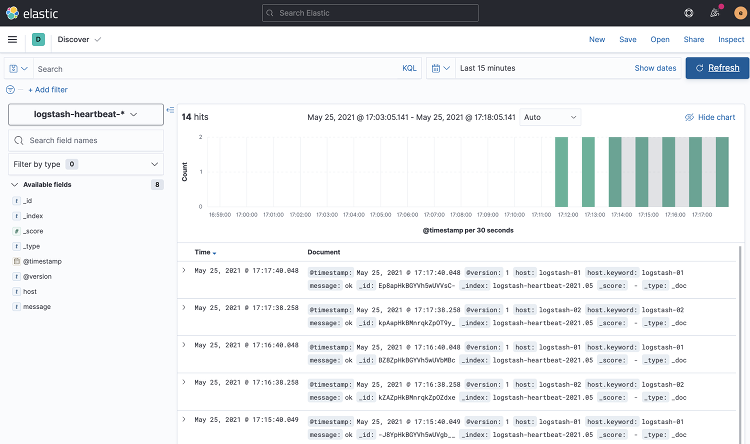
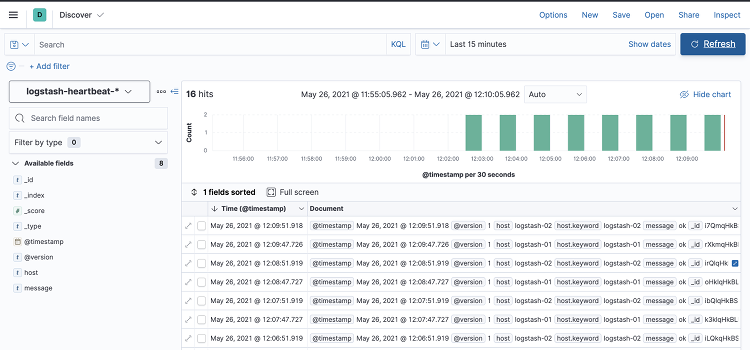
update to ECK 1.6 and Elastic Stack 7.12.1-7.13.0

diff --git a/monitoring/README.md b/monitoring/README.md
@@ -1,7 +1,7 @@
 # Deploying and monitoring the ELK Stack
 
-- Once we've [installed GKE and ECK](../install-gke-and-eck.md), we can proceed to create an ELK stack, and a dedicated [monitoring cluster](https://www.elastic.co/guide/en/elasticsearch/reference/current/monitor-elasticsearch-cluster.html). 
-- We'll use [Metricbeat collection](https://www.elastic.co/guide/en/elasticsearch/reference/current/configuring-metricbeat.html) to gather the data.
+- Once we've [installed GKE and ECK](../install-gke-and-eck.md), we can proceed to create an ELK stack, and a dedicated [monitoring cluster](https://www.elastic.co/guide/en/elasticsearch/reference/7.13/monitor-elasticsearch-cluster.html). 
+- We'll use [Metricbeat collection](https://www.elastic.co/guide/en/elasticsearch/reference/7.13/configuring-metricbeat.html) to gather the data.
 - The example is built based on the following blog: https://www.elastic.co/blog/elastic-stack-monitoring-with-elastic-cloud-on-kubernetes and examples the example in https://github.com/elastic/cloud-on-k8s/blob/master/config/recipes/beats/stack_monitoring.yaml
 - This is not a production-ready example, just a simple example to get you started. 
     - We'll be deploying the ELK stack and the monitoring cluster in the same `default` k8s namespace.
@@ -13,8 +13,8 @@
 
 - The first step is to deploy the Elasticsearch cluster and Kibana instance to monitor, our production stack. 
   - The [01-monitored-es-kb.yaml](./01-monitored-es-kb.yaml) file describes a 3 node Elasticsearch cluster and 1 Kibana instance. Kibana is published via and [external Load Balancer](https://kubernetes.io/docs/tasks/access-application-cluster/create-external-load-balancer/#external-load-balancer-providers), setting [Service](https://kubernetes.io/docs/concepts/services-networking/service/) `type` to `LoadBalancer`.
-  - The labels `stack-monitoring.elastic.co/type` will allow Metricbeat to configure the [Elaticsearch](https://www.elastic.co/guide/en/beats/metricbeat/7.12/metricbeat-module-elasticsearch.html) and [Kibana](https://www.elastic.co/guide/en/beats/metricbeat/7.12/metricbeat-module-kibana.html) modules.
-  - With the annotation [`co.elastic.logs/enabled: "true"`](https://www.elastic.co/guide/en/beats/filebeat/7.12/configuration-autodiscover-hints.html#_co_elastic_logsenabled) we allow our monitoring Filebeat to capture only the logs from Pods that have this annotation set to `true` and send those to the monitoring cluster.
+  - The labels `stack-monitoring.elastic.co/type` will allow Metricbeat to configure the [Elaticsearch](https://www.elastic.co/guide/en/beats/metricbeat/7.13/metricbeat-module-elasticsearch.html) and [Kibana](https://www.elastic.co/guide/en/beats/metricbeat/7.13/metricbeat-module-kibana.html) modules.
+  - With the annotation [`co.elastic.logs/enabled: "true"`](https://www.elastic.co/guide/en/beats/filebeat/7.13/configuration-autodiscover-hints.html#_co_elastic_logsenabled) we allow our monitoring Filebeat to capture only the logs from Pods that have this annotation set to `true` and send those to the monitoring cluster.
 
 - Let's deploy:
 
@@ -42,7 +42,7 @@
     ```
 - We can now point our browser to https://EXTERNAL-IP:5601, in the example https://35.246.189.26:5601, and login with user `elastic` and the password we extracted from the secret, `234IrkC5886H9oPL3dK7lttD` in our example. 
     - As we are using self-signed certificates, we'll have to bypass the browser warning.
-- Feel free to load [sample data](https://www.elastic.co/guide/en/kibana/7.12/get-started.html#gs-get-data-into-kibana) into the Kibana instance, or play around.
+- Feel free to load [sample data](https://www.elastic.co/guide/en/kibana/7.13/get-started.html#gs-get-data-into-kibana) into the Kibana instance, or play around.
 - This is what we would see in Kubernetic, 3 pods for Elasticsearch Daemon Set, 1 for the Kibana service.
 
   ![Production Pods](./img/kubernetic-prod-pods.png)
@@ -51,9 +51,9 @@
 
 - We'll now go ahead and deploy a couple of Logstash instances. 
 - Logstash cannot be deployed using the ECK operator, and we can use the [Helm chart](https://github.com/elastic/helm-charts/tree/master/logstash). It's still not GA, so use it with caution in production, as it's not yet fully supported.
-- For the sake of simplicity here, we'll just deploy a couple of [Pods](https://kubernetes.io/docs/concepts/workloads/pods/) named `logstash-01` and `logstash-02`, with a simple pipeline that user Logstash [heartbeat input plugin](https://www.elastic.co/guide/en/logstash/7.12/plugins-inputs-heartbeat.html) to send an event every 60 seconds. This will be configured using a k8s [ConfigMap](https://kubernetes.io/docs/concepts/configuration/configmap/).
+- For the sake of simplicity here, we'll just deploy a couple of [Pods](https://kubernetes.io/docs/concepts/workloads/pods/) named `logstash-01` and `logstash-02`, with a simple pipeline that user Logstash [heartbeat input plugin](https://www.elastic.co/guide/en/logstash/7.13/plugins-inputs-heartbeat.html) to send an event every 60 seconds. This will be configured using a k8s [ConfigMap](https://kubernetes.io/docs/concepts/configuration/configmap/).
 - Before deploying, we need to make some changes to the file [02-monitored-logstash.yaml](./02-monitored-logstash.yaml), which also describes the Logstash `ConfigMap`.
-  - In order to monitor the cluster, we need to set a value for the [`monitoring.cluster_uuid:`](https://www.elastic.co/guide/en/logstash/7.12/monitoring-with-metricbeat.html#define-cluster__uuid), to bind Logstash metrics to the cluster we created in the first step. 
+  - In order to monitor the cluster, we need to set a value for the [`monitoring.cluster_uuid:`](https://www.elastic.co/guide/en/logstash/7.13/monitoring-with-metricbeat.html#define-cluster__uuid), to bind Logstash metrics to the cluster we created in the first step. 
   - The `cluster_uuid` is in the annotations for that cluster. Execute the following to get it:
 
     ```shell
@@ -62,9 +62,9 @@
     wZfJcRAOToubncOnkN_6rg
     ```
   - And update the [ConfigMap](./02-monitored-logstash.yaml) accordingly. In our case, we changed `monitoring.cluster_uuid: changeme` to `monitoring.cluster_uuid: wZfJcRAOToubncOnkN_6rg`.
-  - Next we need to update the `elastic` user password in the `ConfigMap`. Note that this is not what we would do in production, we would create a [dedicated user with limited permissions](https://www.elastic.co/guide/en/logstash/7.12/ls-security.html#ls-http-auth-basic). We'll use the `elastic` user here for simplicity, as this is a getting started example.
+  - Next we need to update the `elastic` user password in the `ConfigMap`. Note that this is not what we would do in production, we would create a [dedicated user with limited permissions](https://www.elastic.co/guide/en/logstash/7.13/ls-security.html#ls-http-auth-basic). We'll use the `elastic` user here for simplicity, as this is a getting started example.
   - Update the [ConfigMap](./02-monitored-logstash.yaml), in our case, we changed `password => "changeme"` to `password => "234IrkC5886H9oPL3dK7lttD"`; the password extracted in the first step.
-- Note that we defined a label, `monitoring_label_type: ls`, that we'll later use to configure the [Metricbeat Logstash module](https://www.elastic.co/guide/en/beats/filebeat/7.12/filebeat-module-logstash.html) to collect its metrics.
+- Note that we defined a label, `monitoring_label_type: ls`, that we'll later use to configure the [Metricbeat Logstash module](https://www.elastic.co/guide/en/beats/filebeat/7.13/filebeat-module-logstash.html) to collect its metrics.
 - We can go ahead and create the Logstash Pods and ConfigMap.
 
     ```shell
@@ -97,7 +97,7 @@
     ![Logstash-01 Pod Logs](./img/kubernetic-logstash-pods-logs.png)
 
 - Finally, if we log into Kibana, we should be able to see a new index, `logstash-heartbeat-YYYY.MM`. In our case, `logstash-heartbeat-2021.01`. 
-    - We can create an [index pattern](https://www.elastic.co/guide/en/kibana/7.12/index-patterns.html) to view the data on [Kibana Discover](https://www.elastic.co/guide/en/kibana/7.12/discover.html).
+    - We can create an [index pattern](https://www.elastic.co/guide/en/kibana/7.13/index-patterns.html) to view the data on [Kibana Discover](https://www.elastic.co/guide/en/kibana/7.13/discover.html).
  
      ![Logstash Heartbeat Discover](./img/logstash-heartbeat-discover.png)
 
@@ -130,7 +130,7 @@
 
    ![Monitoring Cluster](./img/kubernetic-monitoring-pods.png) 
 
-- This is still an emtpy cluster, nothing will show up on [Kibana Stack Monitoring](https://www.elastic.co/guide/en/kibana/7.12/xpack-monitoring.html). We need to deploy Metricbeat and Filebeat to collect metrics and logs, and send them to this cluster. Which we'll do in the final step ahead.
+- This is still an emtpy cluster, nothing will show up on [Kibana Stack Monitoring](https://www.elastic.co/guide/en/kibana/7.13/xpack-monitoring.html). We need to deploy Metricbeat and Filebeat to collect metrics and logs, and send them to this cluster. Which we'll do in the final step ahead.
 
     ![Empty monitoring](./img/empty-monitoring.png)
 
@@ -182,7 +182,7 @@
   ![Filebeat DaemonSet](./img/kubernetic-filebeat-daemon-set.png) 
   ![Beat's pods](./img/kubernetic-beats-pods.png)
 
-- Note also that we needed to create some cluster roles and service acounts to give Beats the [right authorizations for autodiscover](https://www.elastic.co/guide/en/cloud-on-k8s/1.5/k8s-beat-configuration.html#k8s-beat-role-based-access-control-for-beats). Make sure you check requirements more recent versions, as they can change.
+- Note also that we needed to create some cluster roles and service acounts to give Beats the [right authorizations for autodiscover](https://www.elastic.co/guide/en/cloud-on-k8s/1.6/k8s-beat-configuration.html#k8s-beat-role-based-access-control-for-beats). Make sure you check requirements more recent versions, as they can change.
 - Once this is in place, we can now go back to Kibana Stack Monitoring and we should see our stack.
 
     ![Kibana Stack Monitoring](./img/kibana-stack-monitoring.png)
